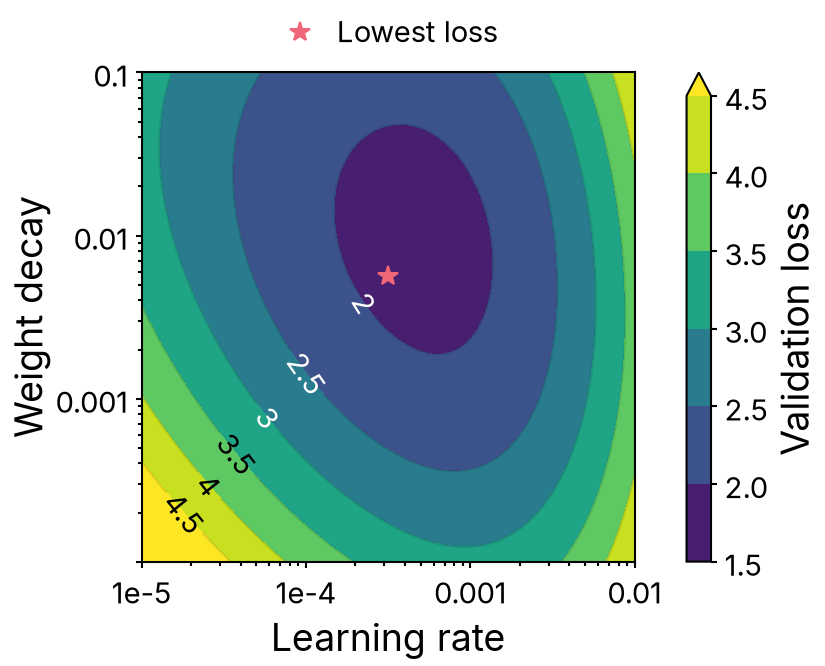
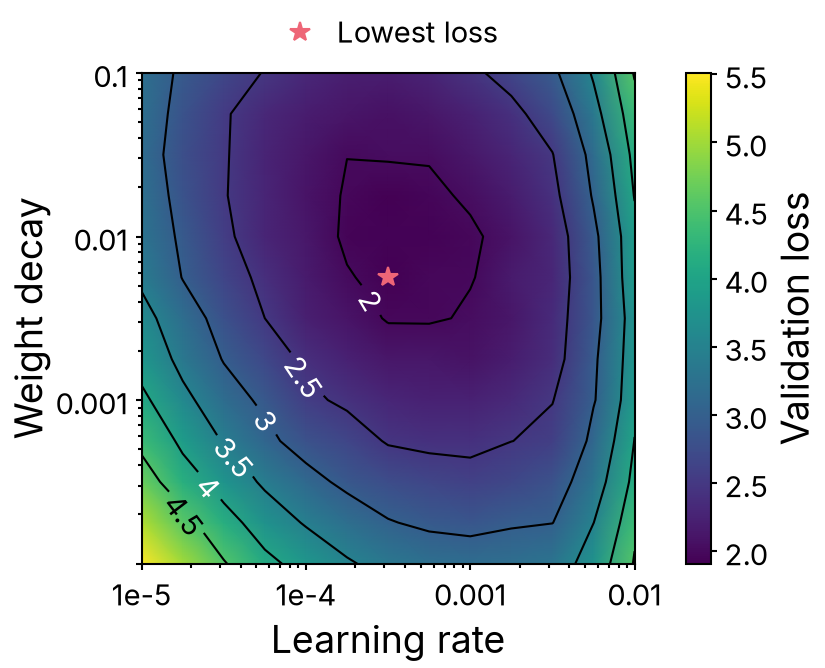
Contours: exact lines over a gouraud gradient, not a smoothed copy

diff --git a/examples/chart-types/scripts/hyperparameter-surface.py b/examples/chart-types/scripts/hyperparameter-surface.py
@@ -1,4 +1,4 @@
-"""Figure 4: Validation loss over learning rate and weight decay. Contours are smoothed from the 13 ×
+"""Figure 4: Validation loss over learning rate and weight decay. Contours are drawn from the 13 ×
 13 runs on log-spaced axes; the star marks the run with the lowest loss. The loss is lowest (1.91)
 at learning rate 3e-4 and weight decay 6e-3, and rises steeply at the largest learning rates, where
 training diverges (above 3.7 at 0.01 for every weight decay).
@@ -11,7 +11,7 @@ import sys
 import matplotlib.pyplot as plt
 import numpy as np
 from matplotlib.ticker import NullFormatter
-from scipy.interpolate import RectBivariateSpline
+from matplotlib import rcParams
 
 sys.path.insert(0, "../../../skills/academic-figure/assets")  # the skill's style files
 import paper  # registers the bundled Inter font
@@ -25,29 +25,23 @@ learning_rate = np.array(data["learning_rate"])
 weight_decay = np.array(data["weight_decay"])
 val_loss = np.array(data["val_loss"])
 
-log_lr_fine = np.linspace(np.log10(learning_rate[0]), np.log10(learning_rate[-1]), 200)
-log_wd_fine = np.linspace(np.log10(weight_decay[0]), np.log10(weight_decay[-1]), 200)
-noise = 0.02 * np.ptp(val_loss)
-fine = RectBivariateSpline(np.log10(weight_decay), np.log10(learning_rate), val_loss,
-                           s=val_loss.size * noise ** 2)(log_wd_fine, log_lr_fine)
-X, Y = np.meshgrid(10 ** log_lr_fine, 10 ** log_wd_fine)
+X, Y = np.meshgrid(learning_rate, weight_decay)
 
 fig, ax = plt.subplots(figsize=(2.75, 3))
 ax.set_xscale("log")
 ax.set_yscale("log")
-cs = ax.contourf(X, Y, fine, levels=np.arange(1.5, 4.51, 0.5), extend="max")
-lines = ax.contour(X, Y, fine, levels=cs.levels, colors=colors["ink"], alpha=0.1)
+mesh = ax.pcolormesh(X, Y, val_loss, shading="gouraud")
+lines = ax.contour(X, Y, val_loss, levels=np.arange(2, 4.51, 0.5), colors=colors["ink"], linewidths=rcParams["contour.linewidth"])
 # one label per level, on the diagonal from the minimum toward the low-lr, low-wd corner, where lines are farthest apart
 positions = [(2.31e-4, 3.90e-3), (9.37e-5, 1.36e-3), (5.50e-5, 7.31e-4), (3.53e-5, 4.36e-4),
              (2.47e-5, 2.87e-4), (1.77e-5, 1.95e-4)]
 labels = ax.clabel(lines, fmt="%.2g", manual=positions)
 for t in labels:
-    t.set_alpha(1)
-    t.set_color(text_color(cs.cmap(cs.norm(float(t.get_text())))))
+        t.set_color(text_color(mesh.cmap(mesh.norm(float(t.get_text())))))
 
 best_i, best_j = np.unravel_index(val_loss.argmin(), val_loss.shape)
 ax.plot(learning_rate[best_j], weight_decay[best_i], "*", color=colors["ours"], markerfacecolor=colors["ours"],
-        markersize=2 * plt.rcParams["lines.markersize"], linestyle="none", label="Lowest loss")
+        markersize=paper.highlight_size, linestyle="none", label="Lowest loss")
 
 ax.set_xticks([1e-5, 1e-4, 1e-3, 1e-2], labels=["1e-5", "1e-4", "0.001", "0.01"])
 ax.set_yticks([1e-4, 1e-3, 1e-2, 1e-1], labels=["", "0.001", "0.01", "0.1"])
@@ -57,7 +51,7 @@ ax.grid(False)
 ax.set_xlabel("Learning rate")
 ax.set_ylabel("Weight decay")
 ax.legend(loc="lower center", bbox_to_anchor=(0.5, 1), borderaxespad=0.5, ncol=1, frameon=False)
-fig.colorbar(cs, ax=ax, label="Validation loss")
+fig.colorbar(mesh, ax=ax, label="Validation loss")
 
 fit_height(fig, ax, aspect=1.0)
 fig.savefig("../outputs/hyperparameter-surface.pdf")

diff --git a/skills/academic-figure/contour-plot.md b/skills/academic-figure/contour-plot.md
@@ -6,9 +6,8 @@ A function of two continuous variables: a loss landscape, a decision boundary, a
 
 - **Panel**: aspect 1 : 1, no gridlines (`ax.grid(False)`), both axes labelled with their variables.
 - **Values**: when they span over 100×, contour their logarithm (DESIGN.md's log rule) and say "contours of log loss" in the caption.
-- **Filled contours with lines**: `cs = ax.contourf(X, Y, Z, levels=levels)` in the design's colormap (`viridis`, low values dark; signed values `RdBu_r` centered at 0, as in `heatmap.md`), then `lines = ax.contour(X, Y, Z, levels=cs.levels, colors=colors["ink"], alpha=0.1)` at the design's `contour` width (pass no `linewidths`): as faint as the grid, so the fill carries the values. 6 to 8 levels at half width, 10 at full width: `levels = np.linspace(lo, hi, 7)` over round `lo`, `hi`.
-- **Colorbar**: always, labelled with the quantity, `fig.colorbar(cs, ax=ax, label="Validation loss")`.
-- **Measured grid** (a sweep of runs, fewer than 50 values per side): contour a smoothing spline of it, so the lines follow the surface, not the grid's straight segments or the run-to-run noise: `fine = RectBivariateSpline(y, x, Z, s=Z.size * noise ** 2)(y_fine, x_fine)` (`from scipy.interpolate import RectBivariateSpline`), on 200 points per axis (`np.linspace` of the data coordinates; `np.log10` of a log axis, then back with `10 **`), where `noise` is the run-to-run spread: the std over seeds when the data has it, else `0.02 * np.ptp(Z)`.
+- **Gradient with lines**: the values as a continuous gradient in the design's colormap (`viridis`, low values dark; signed values `RdBu_r` centered at 0, as in `heatmap.md`), exact at each data point and blended smoothly between them, `mesh = ax.pcolormesh(X, Y, Z, shading="gouraud")`; on it, the contour lines of the data itself, never of a smoothed copy, so each line marks exactly where the values cross its level, `lines = ax.contour(X, Y, Z, levels=levels, colors=colors["ink"], linewidths=rcParams["contour.linewidth"])`. 6 to 8 levels at half width, 10 at full width, at round values: `levels = np.arange(lo, hi + step / 2, step)`.
+- **Colorbar**: always, labelled with the quantity, `fig.colorbar(mesh, ax=ax, label="Validation loss")`.
 
 ## Variants
 
@@ -18,18 +17,17 @@ A function of two continuous variables: a loss landscape, a decision boundary, a
 
 ## Labels
 
-- **Level labels**: one label per level, black or white for the fill at its level, at full opacity (labels inherit the lines' alpha). Place them along the path from the minimum toward the farthest corner, where the lines are farthest apart: `positions` holds, for each level, the point on that path where Z crosses it.
+- **Level labels**: one label per level, black or white for the color at its level. Place them along the path from the minimum toward the farthest corner, where the lines are farthest apart: `positions` holds, for each level, the point on that path where Z crosses it.
 
   ```python
   labels = ax.clabel(lines, fmt="%.2g", manual=positions)
   for t in labels:
-      t.set_alpha(1)
-      t.set_color(text_color(cs.cmap(cs.norm(float(t.get_text())))))
+      t.set_color(text_color(mesh.cmap(mesh.norm(float(t.get_text())))))
   ```
 
   For polylines, write each level at its given label position, `ax.text(x, y, f"{level:.2g}", ha="center", va="center", gid="contour-label")`; when `fit_height` reports two of them overlapping, drop the later one.
-- **Points of interest**: a minimum or the trained solution as a filled star in `colors["ours"]` at the design's highlight size, `ax.plot(x, y, "*", color=colors["ours"], markerfacecolor=colors["ours"], markersize=paper.highlight_size, linestyle="none", label=...)`, at a measured run; a training trajectory as a data line with markers at its ends; named in a legend (outside, DESIGN.md Legend).
+- **Points of interest**: a minimum or the trained solution as a filled star in `colors["ours"]` at the design's highlight size, `ax.plot(x, y, "*", color=colors["ours"], markerfacecolor=colors["ours"], markersize=paper.highlight_size, linestyle="none", label=...)`; a training trajectory as a data line with markers at its ends; named in a legend (outside, DESIGN.md Legend).
 
 ## Caption
 
-- **Reading guide**: "smoothed from the N × M runs" for a measured grid; what the star marks.
+- **Reading guide**: "colors blend between the N × M runs" for a measured grid; what the star marks.

diff --git a/skills/academic-figure/assets/DESIGN.md b/skills/academic-figure/assets/DESIGN.md
@@ -236,7 +236,7 @@ The marks every chart type is built from, sized by the `components` tokens. Matp
 | Contour lines | `contour` | 0.5 pt | `rcParams["contour.linewidth"]` |
 
 - **Opacity**: fills take the series color at full opacity, except bands (`alpha=0.2`), scatter clouds (`alpha=0.5`), light polygon fills (radar, `alpha=0.1`), and box plots and violins, which take `lighten(color)` so the black median and the points on them stay readable.
-- **Reference lines** (a baseline's score, a threshold, a diagonal): `ax.axhline(..., linestyle="--", linewidth=paper.dashed_width, zorder=1)` in `neutral`, white across a filled plot (stacked area, heatmap, filled contour), where grey sinks into the fills. A line with a value of its own (a baseline's score, a threshold) gets a legend entry; a line whose meaning the axes give (y = x, chance, zero) gets none, and the caption's reading guide names it.
+- **Reference lines** (a baseline's score, a threshold, a diagonal): `ax.axhline(..., linestyle="--", linewidth=paper.dashed_width, zorder=1)` in `neutral`, white across a filled plot (stacked area, heatmap, contour gradient), where grey sinks into the fills. A line with a value of its own (a baseline's score, a threshold) gets a legend entry; a line whose meaning the axes give (y = x, chance, zero) gets none, and the caption's reading guide names it.
 
 ## Components
 
@@ -267,7 +267,7 @@ Pick the first row that fits:
 
 | Case | Legend |
 |---|---|
-| A filled plot (heatmap, filled contour, stacked area, embedding) | outside, above the panel (last row), or none when the bands are named directly |
+| A filled plot (heatmap, contour gradient, stacked area, embedding) | outside, above the panel (last row), or none when the bands are named directly |
 | One panel | inside, at the first spot where `fit_height` stays silent: the corners `"upper left"`, `"upper right"`, `"lower left"`, `"lower right"`, then `"upper center"`, `"lower center"`, `"center left"`, `"center right"`; when none works, outside, above the panel (last row) |
 | Several panels with the same series | one legend for the figure, above the panels: `fig.legend(*axes.flat[0].get_legend_handles_labels(), loc="outside upper center", ncol=<entries>, frameon=False, borderaxespad=0)` |
 | A row of panels with its own series (rows of different plots) | one legend per row, in that row's first panel where it fits, else the next, placed as for one panel |

diff --git a/skills/academic-figure/SKILL.md b/skills/academic-figure/SKILL.md
@@ -36,7 +36,7 @@ figures/
 ```
 
 - **Setup**: `{skill-dir}` is this skill's base directory. `mkdir -p figures/style figures/outputs`, `cp -n {skill-dir}/assets/DESIGN.md figures/`, `cp -n {skill-dir}/assets/{paper.py,paper.mplstyle,Inter-*} figures/style/`; `-n` keeps copies already there, so a design the user changed stays.
-- **Requirements**: Python 3.10+, `matplotlib` 3.10+, `numpy` 2+, `pyyaml`, and `scipy` for the charts whose files call it (smoothed contours, density curves). If one is missing, tell the user and ask before installing it.
+- **Requirements**: Python 3.10+, `matplotlib` 3.10+, `numpy` 2+, `pyyaml`, and `scipy` for density curves. If one is missing, tell the user and ask before installing it.
 - **Script**: `figures/{id}.py` (kebab-case id) runs on its own: the caption as its docstring, the setup below, then everything for that figure: load data, plot, `fit_height`, save PDF and PNG.
 
   ```python
